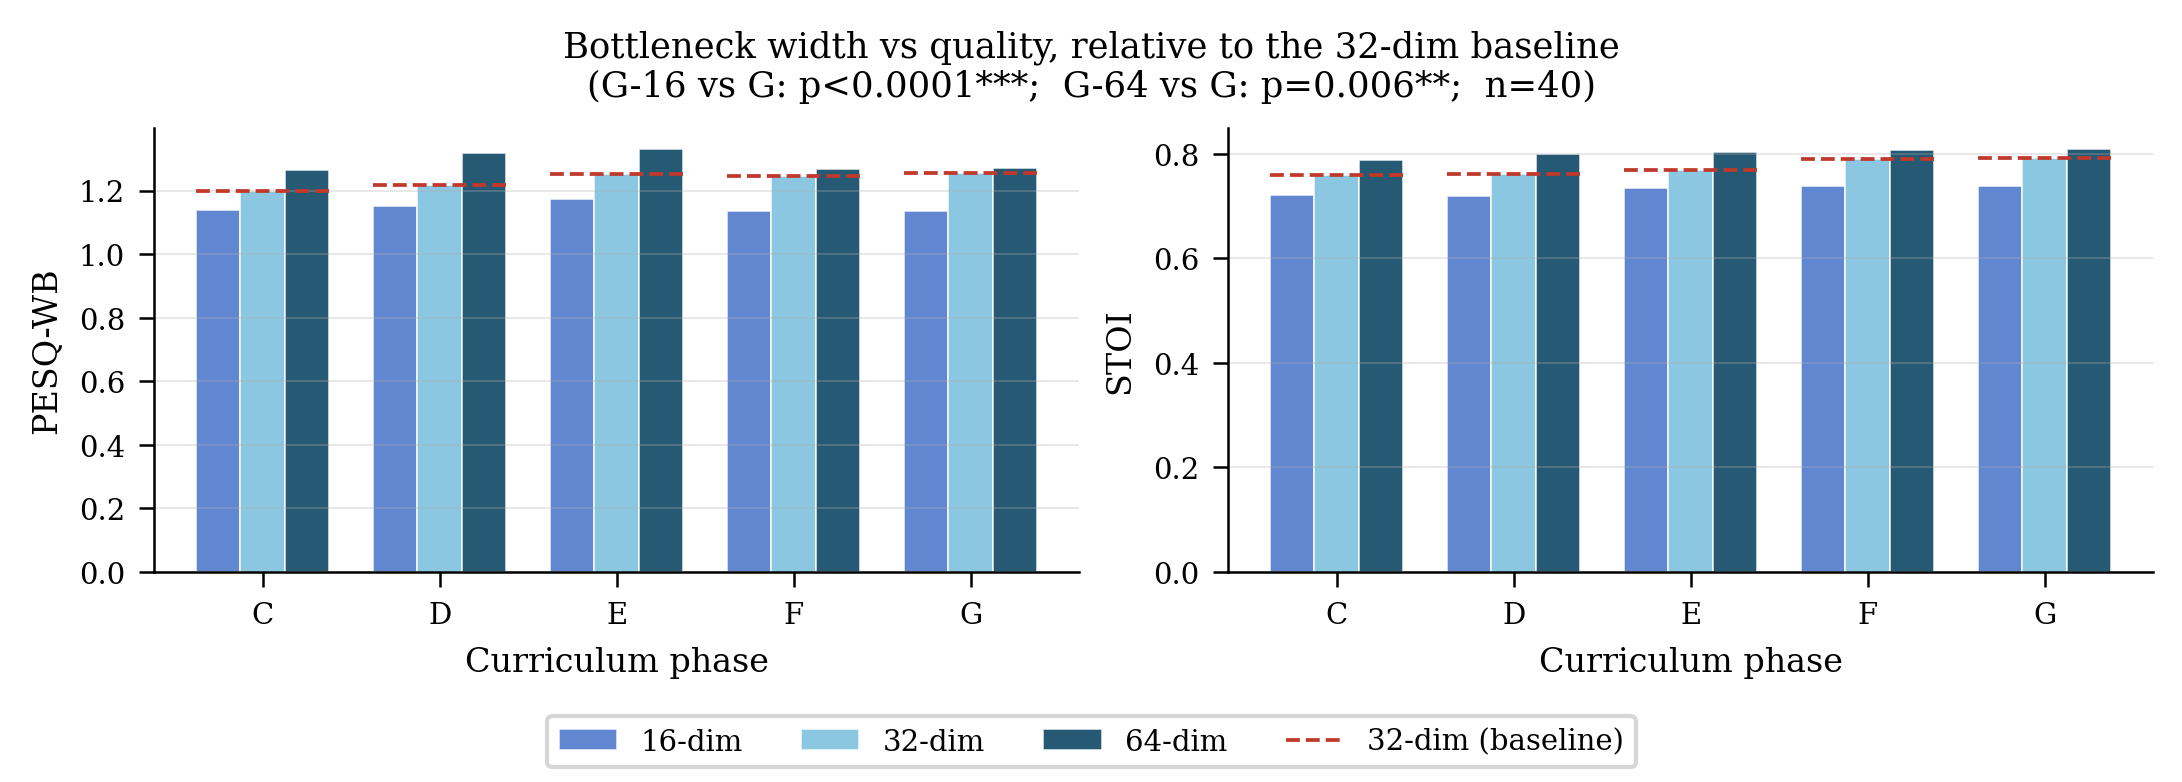
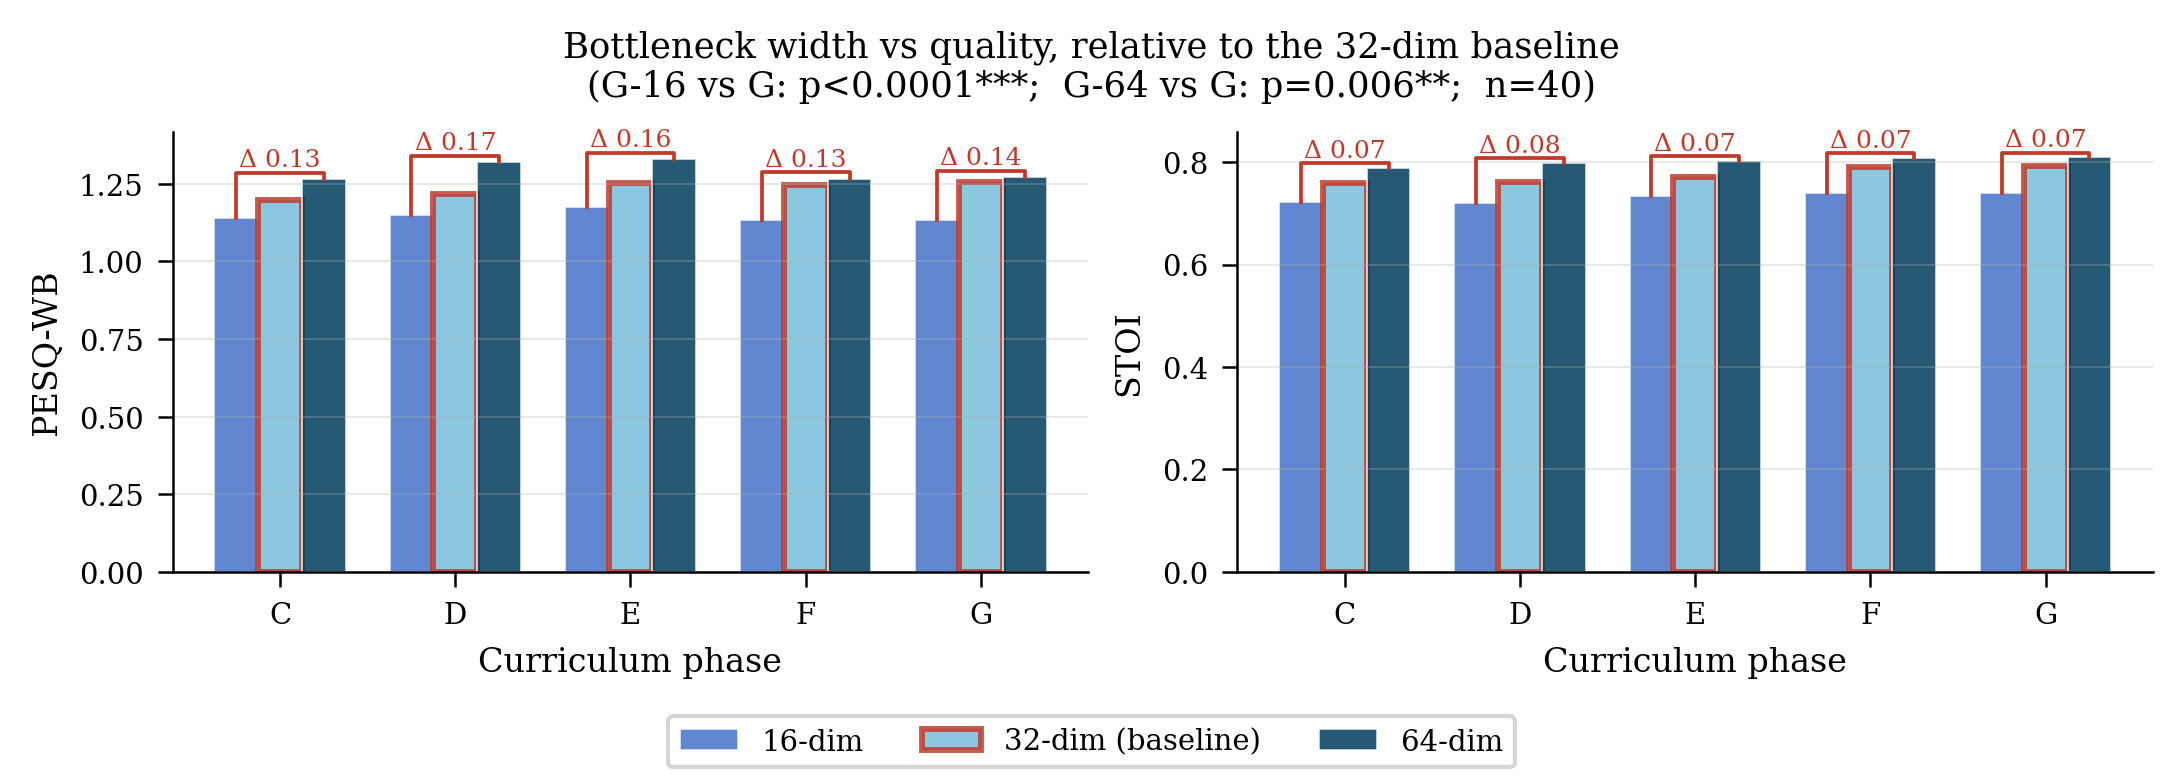
feat: update figures with improved annotations and styling for clarity

diff --git a/scripts/figures/plots.py b/scripts/figures/plots.py
@@ -509,19 +509,19 @@ def fig_16_multi_coder(data: dict) -> plt.Figure:
     c3 = style.PHASE_COLORS['D']
 
     fig, ax = plt.subplots(figsize=(style.COL2_W, style.ROW_H))
-    ax.bar(x - w,   zlib, w, color=c1, label='zlib',  edgecolor='white', linewidth=0.4)
+    ax.bar(x - w,   zlib, w, color=c1, label='zlib (baseline)', edgecolor='#c0392b', linewidth=1.4)
     ax.bar(x,       lzma, w, color=c2, label='lzma',  edgecolor='white', linewidth=0.4)
     ax.bar(x + w,   bz2,  w, color=c3, label='bz2',   edgecolor='white', linewidth=0.4)
     # zlib is the baseline used everywhere else in this analysis (fig_06,
-    # fig_15) — a thin red line from its bar top to bz2's marks the gain the
-    # stronger coders offer over that baseline, per phase.
-    dvae_idx = phases.index('D-VAE') if 'D-VAE' in phases else None
-    for xi, (z, b) in enumerate(zip(zlib, bz2)):
-        ax.plot([xi - w, xi + w], [z, b], color='#c0392b', linewidth=1.0, zorder=6)
-        if xi == dvae_idx:
-            ax.annotate(f'+{b - z:.3f}×  vs zlib', xy=(xi, (z + b) / 2),
-                        textcoords='offset points', xytext=(10, 0),
-                        fontsize=6.5, color='#c0392b', va='center')
+    # fig_15) — outlined in red, with a flat bracket to bz2 (straight, not a
+    # diagonal connecting two different bar heights) marking the gain the
+    # strongest coder offers over that baseline, for every phase.
+    for xi, (z, l, b) in enumerate(zip(zlib, lzma, bz2)):
+        y_bar = max(z, l, b) + 0.06
+        ax.plot([xi - w, xi - w, xi + w, xi + w], [z, y_bar, y_bar, b],
+                color='#c0392b', linewidth=0.9, zorder=6)
+        ax.text(xi, y_bar + 0.015, f'Δ {b - z:.3f}', ha='center', va='bottom',
+                fontsize=6.5, color='#c0392b')
     ax.set_xticks(x)
     ax.set_xticklabels(phases)
     ax.set_ylabel('Compression ratio')
@@ -606,18 +606,33 @@ def fig_18_channel_ablation(data: dict) -> plt.Figure:
         (axes[0], 'pesq', 'PESQ-WB'),
         (axes[1], 'stoi', 'STOI'),
     ]:
+        vals = {}
         for width_label, (phases, color) in widths.items():
-            vals = [ci[p][metric] if p in ci else float('nan') for p in phases]
+            v = [ci[p][metric] if p in ci else float('nan') for p in phases]
+            vals[width_label] = v
             offset = offsets[width_label]
-            ax.bar(x + offset, vals, w, color=color, edgecolor='white',
-                   linewidth=0.4, label=width_label, alpha=0.85)
-        # 32-dim is the baseline used throughout the rest of the thesis — a
-        # short reference line per phase makes 16/64-dim read as gain/loss
-        # against it, rather than three independent bars.
-        baseline_vals = [ci[p][metric] for p in widths['32-dim'][0]]
-        for xi, bv in zip(x, baseline_vals):
-            ax.plot([xi - 1.5 * w, xi + 1.5 * w], [bv, bv],
-                    color='#c0392b', linewidth=0.9, linestyle='--', zorder=6)
+            baseline = width_label == '32-dim'
+            ax.bar(x + offset, v, w, color=color, alpha=0.85, label=width_label,
+                   edgecolor='#c0392b' if baseline else 'white',
+                   linewidth=1.4 if baseline else 0.4)
+
+        # 32-dim is the baseline used throughout the rest of the thesis —
+        # outlined in red, with a bracket from 16-dim to 64-dim (skipping
+        # over the baseline bar in the middle, same convention as fig_16's
+        # zlib→bz2 bracket) marking the spread per phase. Two separate
+        # pairwise brackets were tried first but this figure only has half
+        # the width of fig_16's single panel (PESQ + STOI share the figure),
+        # and the two labels crowded into each other at that spacing.
+        v16, v32, v64 = vals['16-dim'], vals['32-dim'], vals['64-dim']
+        span = max(v16 + v32 + v64) - min(v16 + v32 + v64)
+        lift, pad = 0.1 * span, 0.03 * span
+        for xi, (a, m, b) in enumerate(zip(v16, v32, v64)):
+            y_bar = max(a, m, b) + lift
+            ax.plot([xi - w, xi - w, xi + w, xi + w], [a, y_bar, y_bar, b],
+                    color='#c0392b', linewidth=0.9, zorder=6)
+            ax.text(xi, y_bar + pad, f'Δ {b - a:.2f}', ha='center',
+                    va='bottom', fontsize=6, color='#c0392b')
+
         ax.set_xticks(x)
         ax.set_xticklabels(stage_labels)
         ax.set_xlabel('Curriculum phase')
@@ -625,9 +640,8 @@ def fig_18_channel_ablation(data: dict) -> plt.Figure:
         ax.grid(True, axis='y')
 
     legend_handles, legend_labels = axes[0].get_legend_handles_labels()
-    baseline_proxy = Line2D([0], [0], color='#c0392b', linestyle='--', linewidth=0.9)
-    style.legend(fig, handles=legend_handles + [baseline_proxy],
-                 labels=legend_labels + ['32-dim (baseline)'], ncol=4)
+    legend_labels = [l if l != '32-dim' else '32-dim (baseline)' for l in legend_labels]
+    style.legend(fig, handles=legend_handles, labels=legend_labels, ncol=3)
 
     fig.suptitle('Bottleneck width vs quality, relative to the 32-dim baseline\n'
                  '(G-16 vs G: p<0.0001***;  G-64 vs G: p=0.006**;  n=40)',
